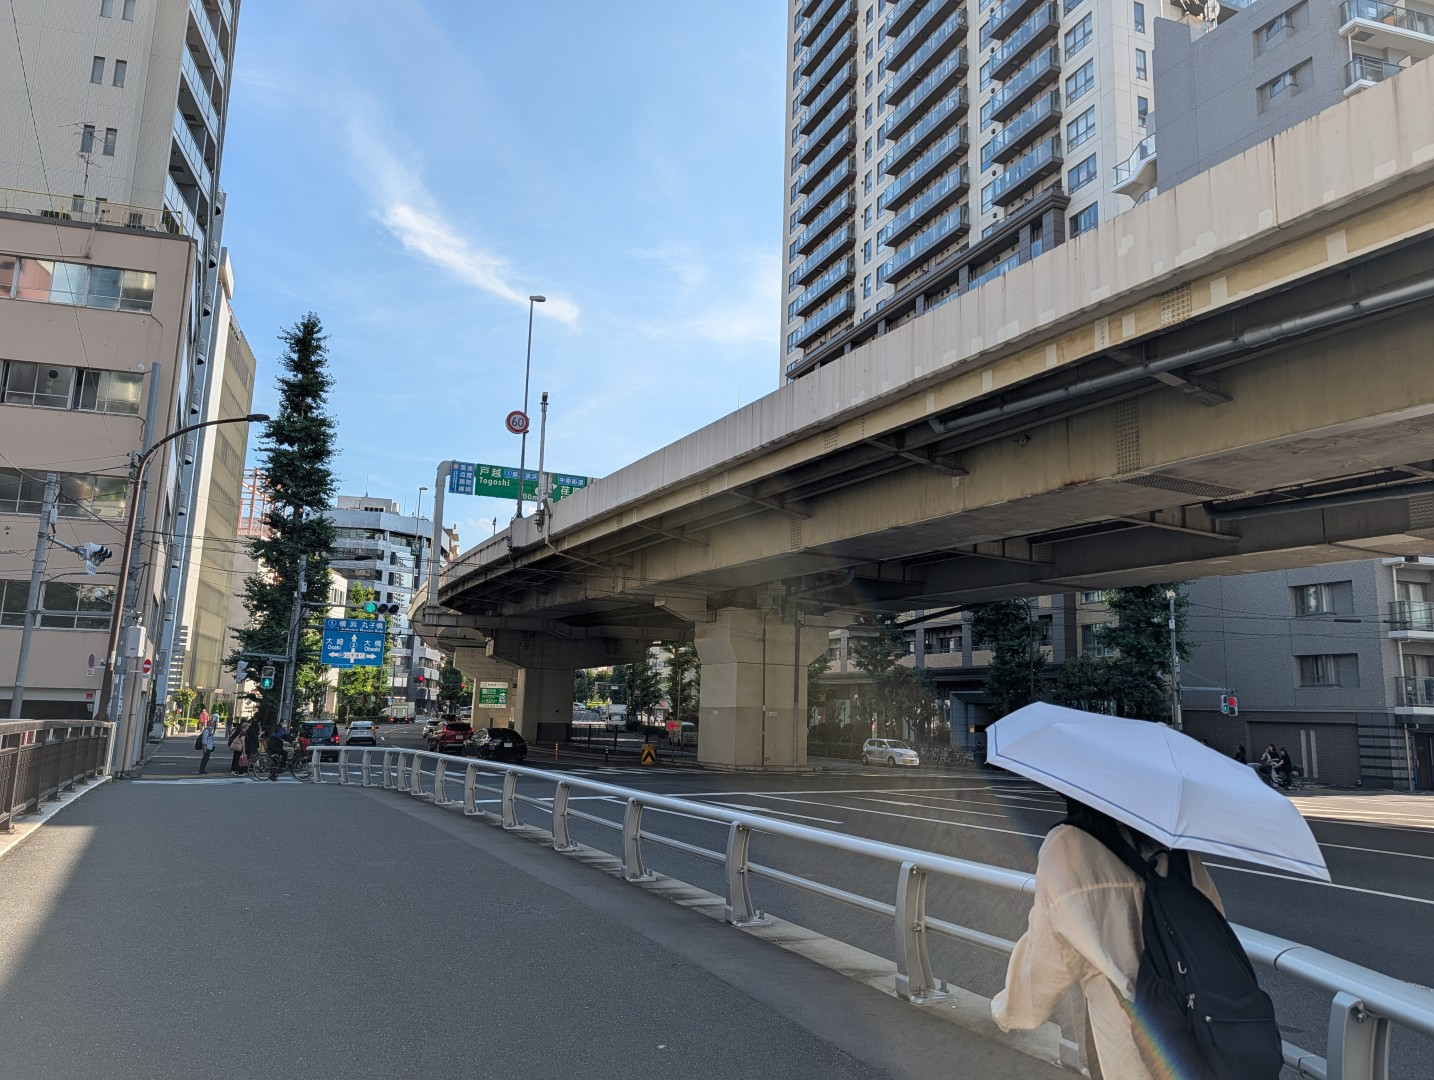
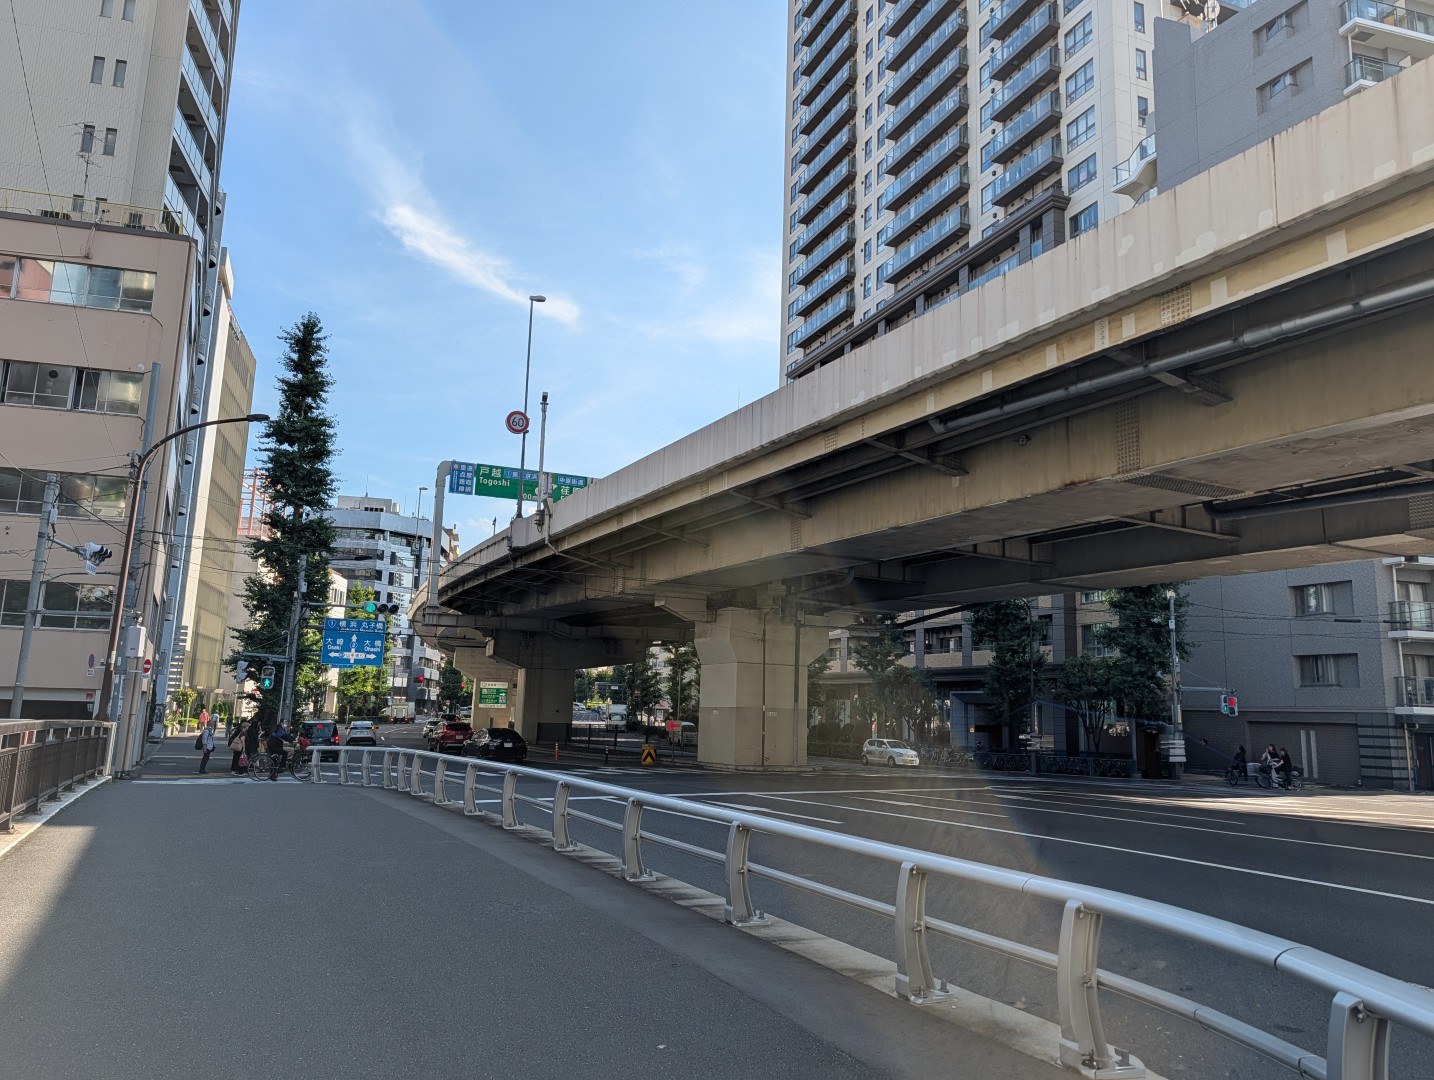
feat:add-img

Changed region(s): [[0.675, 0.6417, 0.9512, 1.0]]

diff --git a/history.html b/history.html
@@ -58,18 +58,17 @@
         <div class="splide splideHistory" aria-label="historyPageのSplide">
           <div class="splide__track">
             <ul class="splide__list">
-              <li class="splide__slide"><img src="./img/topGallery02.jpg" alt="袖ヶ崎神社" width="517" height="480"></li>
-              <li class="splide__slide"><img src="./img/topGallery04.jpg" alt="京急池上線と目黒川" width="638" height="480"></li>
-              <li class="splide__slide"><img src="./img/topGallery05.jpg" alt="目黒川わきの飲み屋街" width="361" height="480">
-              </li>
-              <li class="splide__slide"><img src="./img/topGallery06.jpg" alt="中央環状線高架橋下" width="638" height="480"></li>
+              <li class="splide__slide"><img src="./img/tophistoryImg01.jpg" alt="JR五反田駅写真01" width="1434" height="1080" ></li>
+              <li class="splide__slide"><img src="./img/spotImg01.jpg" alt="JR五反田駅写真02" width="1434" height="1080"></li>
+              <li class="splide__slide"><img src="./img/historyImg02.jpg" alt="JR五反田駅写真03" width="1434" height="1080"></li>
+              <li class="splide__slide"><img src="./img/historyImg03.jpg" alt="JR五反田駅写真04" width="1434" height="1080"></li>
             </ul>
           </div>
         </div>
       </div>
       <div class="section1">
         <div class="sectionText">
-          <h3>京急池上線</h3>
+          <h3>東急池上線</h3>
           <p>
             　池上線は、もともと「池上電気鉄道」という私鉄が池上本門寺への参詣客輸送や沿線開発を目的に建設された路線でした。蒲田側から順次延伸し、最終的に1928年（昭和3年）6月17日、五反田へと到達して全線開通しました。
           </p>
@@ -80,11 +79,11 @@
         <div class="splide splideHistory" aria-label="historyPageのSplide">
           <div class="splide__track">
             <ul class="splide__list">
-              <li class="splide__slide"><img src="./img/topGallery02.jpg" alt="袖ヶ崎神社" width="517" height="480"></li>
-              <li class="splide__slide"><img src="./img/topGallery04.jpg" alt="京急池上線と目黒川" width="638" height="480"></li>
-              <li class="splide__slide"><img src="./img/topGallery05.jpg" alt="目黒川わきの飲み屋街" width="361" height="480">
-              </li>
-              <li class="splide__slide"><img src="./img/topGallery06.jpg" alt="中央環状線高架橋下" width="638" height="480"></li>
+              <li class="splide__slide"><img src="./img/tophistoryImg02.jpg" alt="東急池上線写真01" width="1434" height="1080"></li>
+              <li class="splide__slide"><img src="./img/topGallery04.jpg" alt="東急池上線と目黒川" width="1434" height="1080"></li>
+              <li class="splide__slide"><img src="./img/historyImg04.jpg" alt="東急池上線写真03" width="1434" height="1080"></li>
+              <li class="splide__slide"><img src="./img/topGallery09.jpg" alt="東急池上線写真04" width="1434" height="1080"></li>
+              <li class="splide__slide"><img src="./img/historyImg05.jpg" alt="東急池上線写真05" width="1434" height="1080"></li>
             </ul>
           </div>
         </div>
@@ -102,11 +101,10 @@
         <div class="splide splideHistory" aria-label="historyPageのSplide">
           <div class="splide__track">
             <ul class="splide__list">
-              <li class="splide__slide"><img src="./img/topGallery02.jpg" alt="袖ヶ崎神社" width="517" height="480"></li>
-              <li class="splide__slide"><img src="./img/topGallery04.jpg" alt="京急池上線と目黒川" width="638" height="480"></li>
-              <li class="splide__slide"><img src="./img/topGallery05.jpg" alt="目黒川わきの飲み屋街" width="361" height="480">
-              </li>
-              <li class="splide__slide"><img src="./img/topGallery06.jpg" alt="中央環状線高架橋下" width="638" height="480"></li>
+              <li class="splide__slide"><img src="./img/tophistoryImg03.jpg" alt="都営地下鉄浅草線写真01" width="1434" height="1080"></li>
+              <li class="splide__slide"><img src="./img/historyImg07.jpg" alt="京急池上線と目黒川" width="1434" height="1080"></li>
+              <li class="splide__slide"><img src="./img/historyImg08.jpg" alt="目黒川わきの飲み屋街" width="1434" height="1080"></li>
+              <li class="splide__slide"><img src="./img/historyImg09.jpg" alt="中央環状線高架橋下" width="1434" height="1080"></li>
             </ul>
           </div>
         </div>
@@ -127,11 +125,11 @@
         <div class="splide splideHistory" aria-label="historyPageのSplide">
           <div class="splide__track">
             <ul class="splide__list">
-              <li class="splide__slide"><img src="./img/topGallery02.jpg" alt="袖ヶ崎神社" width="517" height="480"></li>
-              <li class="splide__slide"><img src="./img/topGallery04.jpg" alt="京急池上線と目黒川" width="638" height="480"></li>
-              <li class="splide__slide"><img src="./img/topGallery05.jpg" alt="目黒川わきの飲み屋街" width="361" height="480">
-              </li>
-              <li class="splide__slide"><img src="./img/topGallery06.jpg" alt="中央環状線高架橋下" width="638" height="480"></li>
+              <li class="splide__slide"><img src="./img/topGallery02.jpg" alt="袖ヶ崎神社写真01" width="517" height="480"></li>
+              <li class="splide__slide"><img src="./img/historyImg11.jpg" alt="袖ヶ崎神社写真02" width="1434" height="1080"></li>
+              <li class="splide__slide"><img src="./img/historyImg12.jpg" alt="袖ヶ崎神社写真03" width="1434" height="1080"></li>
+              <li class="splide__slide"><img src="./img/historyImg13.jpg" alt="袖ヶ崎神社写真04" width="1434" height="1080"></li>
+              <li class="splide__slide"><img src="./img/historyImg14.jpg" alt="袖ヶ崎神社写真05" width="1434" height="1080"></li>
             </ul>
           </div>
         </div>

diff --git a/gallery.html b/gallery.html
@@ -44,6 +44,10 @@
         <h2>Gallery</h2>
         <ul class="galleryContainer">
           <li class="imgList">
+            <img src="./img/topImg01.jpg" alt="目黒川沿い（西五反田2丁目）" width="1655" height="1080">
+            <p>目黒川沿い（西五反田2丁目）</p>
+          </li>
+          <li class="imgList">
             <img src="./img/spotImg01.jpg" alt="JR五反田駅" width="1434" height="1080" >
             <p>JR五反田駅と1号線交差点</p>
           </li>
@@ -70,6 +74,22 @@
           <li class="imgList">
             <img src="./img/spotImg03.jpg" alt="目黒川と谷山橋" width="1434" height="1080" >
             <p>目黒川と谷山橋</p>
+          </li>
+          <li class="imgList">
+            <img src="./img/topGallery07.jpg" alt="五反田リバーステーション" width="1434" height="1080" >
+            <p>五反田リバーステーション</p>
+          </li>
+          <li class="imgList">
+            <img src="./img/topGallery08.jpg" alt="三柱神社" width="1434" height="1080" >
+            <p>三柱神社</p>
+          </li>
+          <li class="imgList">
+            <img src="./img/topGallery09.jpg" alt="池上線高架下" width="1434" height="1080" >
+            <p>池上線高架下</p>
+          </li>
+          <li class="imgList">
+            <img src="./img/topGallery10.jpg" alt="目黒川と谷山橋" width="1434" height="1080" >
+            <p>JRと池上線</p>
           </li>
         </ul>
       </section>
